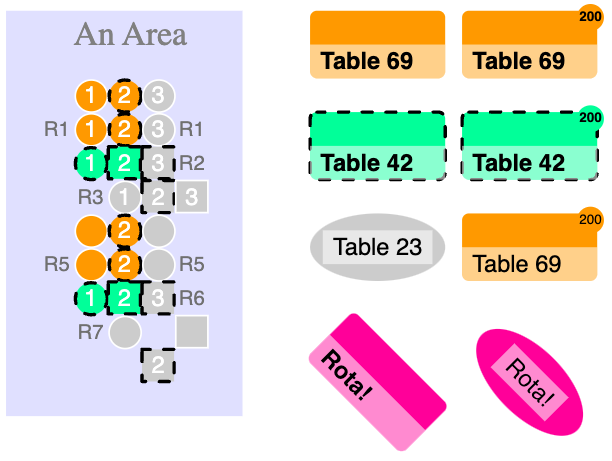
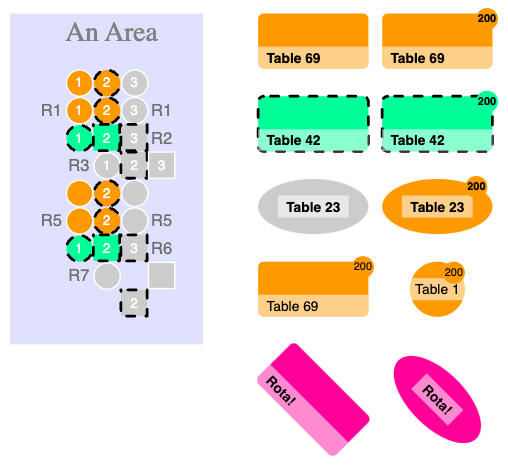
eventjet/eventjet-2014#1402 adjust storybook + readme

diff --git a/packages/seatmaps/src/stories/1-Seatmap.stories.tsx b/packages/seatmaps/src/stories/1-Seatmap.stories.tsx
@@ -1,11 +1,15 @@
 import * as React from 'react';
 import { Area, Block, Rectangle, Row, Seat, Seatmap, SeatShape, Text, Volume } from '../';
-import { SeatCountBadge } from '../SeatCountBadge';
+import { SeatCountBadge, SeatCountBadgeOnCircle, SeatCountBadgeOnEllipse } from '../SeatCountBadge';
 import ref from './complex-example-reference.png';
 
 export default {
     title: 'Seatmap',
     component: Seatmap,
+};
+const seatCountBadgeContainerProps = {
+    width: 400,
+    height: 200,
 };
 
 export const ComplexExample = () => (
@@ -254,7 +258,7 @@ export const ComplexExample = () => (
                         color="#ff9900"
                     >
                         <SeatCountBadge
-                            containerWidth={400}
+                            containerProps={seatCountBadgeContainerProps}
                             count={200}
                             color="#ff9900"
                         />
@@ -278,7 +282,7 @@ export const ComplexExample = () => (
                         active={true}
                     >
                         <SeatCountBadge
-                            containerWidth={400}
+                            containerProps={seatCountBadgeContainerProps}
                             count={200}
                             color="#00ff99"
                         />
@@ -298,12 +302,12 @@ export const ComplexExample = () => (
                         width={400}
                         x={1150}
                         y={600}
-                        label="Table 69"
+                        label="Table 23"
                         color="#ff9900"
-                        fontWeight={'normal'}
+                        shape={'ellipse'}
                     >
-                        <SeatCountBadge
-                            containerWidth={400}
+                        <SeatCountBadgeOnEllipse
+                            containerProps={seatCountBadgeContainerProps}
                             count={200}
                             color="#ff9900"
                         />
@@ -312,7 +316,38 @@ export const ComplexExample = () => (
                         height={200}
                         width={400}
                         x={700}
-                        y={1000}
+                        y={900}
+                        label="Table 69"
+                        color="#ff9900"
+                        fontWeight={'normal'}
+                    >
+                        <SeatCountBadge
+                            containerProps={seatCountBadgeContainerProps}
+                            count={200}
+                            color="#ff9900"
+                        />
+                    </Volume>
+                    <Volume
+                        height={200}
+                        width={200}
+                        x={1250}
+                        y={900}
+                        label="Table 1"
+                        color="#ff9900"
+                        fontWeight={'normal'}
+                        shape={'ellipse'}
+                    >
+                        <SeatCountBadgeOnCircle
+                            containerProps={{ ...seatCountBadgeContainerProps, width: 200 }}
+                            count={200}
+                            color="#ff9900"
+                        />
+                    </Volume>
+                    <Volume
+                        height={200}
+                        width={400}
+                        x={700}
+                        y={1300}
                         label="Rota!"
                         color="#ff0099"
                         angle={45}
@@ -321,7 +356,7 @@ export const ComplexExample = () => (
                         height={200}
                         width={400}
                         x={1150}
-                        y={1000}
+                        y={1300}
                         label="Rota!"
                         color="#ff0099"
                         angle={45}

diff --git a/packages/seatmaps/README.md b/packages/seatmaps/README.md
@@ -23,28 +23,85 @@ const component = () => (
       disabled={false}
       active={false}
       label="Seat 1"
-  />);
+  />
+);
 ```
 
 ### Usage Example - Volumes + SeatCountBadge
 
 SeatCountBadge only works with Volumes at the moment
 
+#### SeatCountBadge on Rectangular Volume
+
 ```javascript
 import React from 'react';
 import { Volume } from '@eventjet/react-seatmaps';
 const component = () => (
-    <Volume
-        x={0},
-        y={0},
-        width={400},
-        height={400},
-        color='#808080',
-        disabled={false}
-        active={false}
-        label="Seat 1"
-    />
-        <SeatCountBadge containerWidth={400} count={200} />
-    </Volume>
-  );
+  <Volume
+      x={0},
+      y={0},
+      width={400},
+      height={400},
+      color='#808080',
+      disabled={false}
+      active={false}
+      label="Seat 1"
+  >
+      <SeatCountBadge containerProps={{ width: 400 }} count={200} />
+  </Volume>
+);
+```
+
+#### SeatCountBadge on Ellipse Volume
+
+```javascript
+import React from 'react';
+import { Volume } from '@eventjet/react-seatmaps';
+const component = () => (
+  <Volume
+      x={0},
+      y={0},
+      width={400},
+      height={200},
+      color='#808080',
+      disabled={false}
+      active={false}
+      label="Seat 1"
+      shape={'ellipse'}
+  >
+      <SeatCountBadgeOnEllipse
+          containerProps={{ width: 400 }}
+          count={200}
+          color="#ff9900"
+      />
+  </Volume>
+);
+
+```
+
+#### SeatCountBadge on Circle Volume
+
+```javascript
+import React from 'react';
+import { Volume } from '@eventjet/react-seatmaps';
+const component = () => (
+  <Volume
+      x={0},
+      y={0},
+      width={400},
+      height={400},
+      color='#808080',
+      disabled={false}
+      active={false}
+      label="Seat 1"
+      shape={'ellipse'}
+  >
+      <SeatCountBadgeOnCircle
+          containerProps={{ width: 400 }}
+          count={200}
+          color="#ff9900"
+      />
+  </Volume>
+);
+
 ```
